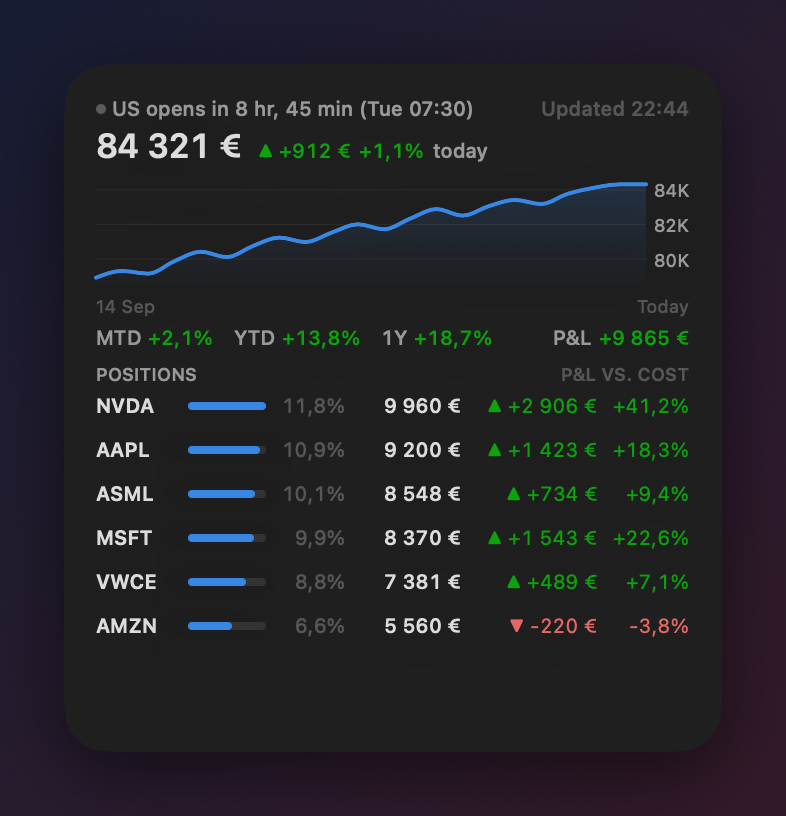
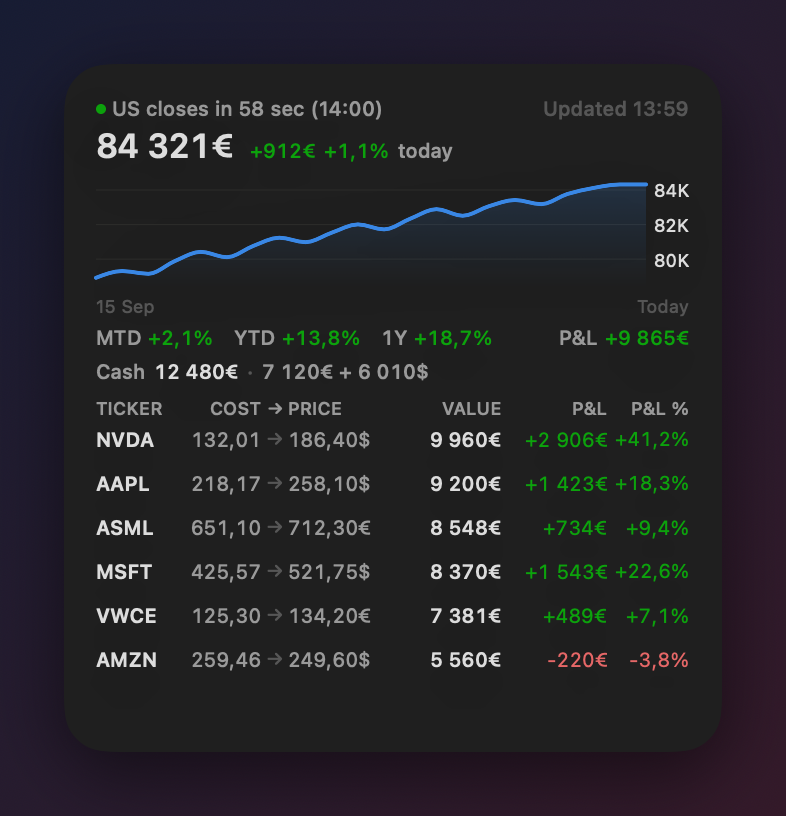
Widget: cost → price column, cash row, aligned headers, joined currency symbols

diff --git a/Shared/PortfolioViews.swift b/Shared/PortfolioViews.swift
@@ -49,7 +49,7 @@ struct Header: View {
     private var change: some View {
         HStack(spacing: 4) {
             if let d = p.dayChange {
-                Text("\(Fmt.arrow(d)) \(Fmt.signedMoney(d, p.currency))").foregroundStyle(Palette.delta(d))
+                Text(Fmt.signedMoney(d, p.currency)).foregroundStyle(Palette.delta(d))
             }
             Text(Fmt.pct(p.dayChangePct)).foregroundStyle(Palette.delta(p.dayChangePct))
             Text("today").foregroundStyle(.secondary)
@@ -125,28 +125,71 @@ struct WeightBar: View {
     }
 }
 
+/// Column labels for the detailed rows, laid out with the same fixed widths as PositionRow.
+struct PositionHeader: View {
+    var showWeightBar = false
+
+    var body: some View {
+        HStack(spacing: 3) {
+            Text("Ticker").frame(width: 38, alignment: .leading)
+            if showWeightBar {
+                Text("Weight").frame(maxWidth: .infinity, alignment: .leading)
+                Text("").frame(width: 34)
+            }
+            // same three sub-columns as the data: cost right-aligned, arrow, price left-aligned
+            HStack(spacing: 2) {
+                Text("Cost").frame(width: 42, alignment: .trailing)
+                Text("→").frame(width: 9)
+                Text("Price").frame(width: 52, alignment: .leading)
+            }
+            .frame(maxWidth: .infinity, alignment: showWeightBar ? .trailing : .leading)
+            Text("Value").frame(width: 50, alignment: .trailing)
+            Text("P&L").frame(width: 50, alignment: .trailing)
+            Text("P&L %").frame(width: 38, alignment: .trailing)
+        }
+        .font(.system(size: 9, weight: .medium))
+        .foregroundStyle(.secondary)
+        .textCase(.uppercase)
+        .lineLimit(1)
+    }
+}
+
 struct PositionRow: View {
     let pos: Position
     let currency: String
     var maxWeight: Double = 1
-    var detailed = false  // large widget: one line with weight bar, value, P&L amount and %
+    var detailed = false  // large widget: one line with cost → price, value, P&L amount and %
     var dense = false  // smaller type when many positions must fit
+    var showWeightBar = false  // extra-large widget has room for the bar as well
 
     var body: some View {
         if detailed {
-            HStack(spacing: 6) {
-                Text(pos.ticker).font(.caption.weight(.semibold)).frame(width: 40, alignment: .leading)
-                WeightBar(weight: pos.weight ?? 0, max: maxWeight).frame(minWidth: 30)
-                Text(Fmt.pct(pos.weight, signed: false)).foregroundStyle(.tertiary).frame(width: 34, alignment: .trailing)
-                Text(Fmt.money(pos.baseValue, currency)).fontWeight(.medium).frame(width: 52, alignment: .trailing)
-                Text("\(Fmt.arrow(pos.basePnl)) \(Fmt.signedMoney(pos.basePnl, currency))")
-                    .foregroundStyle(Palette.delta(pos.basePnl)).frame(width: 62, alignment: .trailing)
-                Text(Fmt.pct(pos.pnlPct)).foregroundStyle(Palette.delta(pos.basePnl)).frame(width: 40, alignment: .trailing)
+            // every column has a fixed width and the sum (≈285pt) stays under the 297pt row even at
+            // the real widget's slightly wider font metrics, so nothing shifts between rows
+            HStack(spacing: 3) {
+                Text(pos.ticker).font(.caption.weight(.semibold)).frame(width: 38, alignment: .leading)
+                if showWeightBar {
+                    WeightBar(weight: pos.weight ?? 0, max: maxWeight).frame(minWidth: 30)
+                    Text(Fmt.pct(pos.weight, signed: false)).foregroundStyle(.tertiary).frame(width: 34, alignment: .trailing)
+                }
+                // average cost → current price in the stock's own currency, as aligned sub-columns
+                HStack(spacing: 2) {
+                    Text(pos.avgPrice.map(Fmt.price) ?? "–").frame(width: 42, alignment: .trailing)
+                    Text("→").foregroundStyle(.tertiary).frame(width: 9)
+                    // cost right-aligned, price left-aligned: the arrow sits centred between them in every row
+                    Text("\(Fmt.price(pos.price))\(Fmt.symbol(pos.currency))").frame(width: 52, alignment: .leading)
+                }
+                .foregroundStyle(.secondary)
+                .frame(maxWidth: .infinity, alignment: showWeightBar ? .trailing : .leading)
+                Text(Fmt.money(pos.baseValue, currency)).fontWeight(.medium).frame(width: 50, alignment: .trailing)
+                Text(Fmt.signedMoney(pos.basePnl, currency))
+                    .foregroundStyle(Palette.delta(pos.basePnl)).frame(width: 50, alignment: .trailing)
+                Text(Fmt.pct(pos.pnlPct)).foregroundStyle(Palette.delta(pos.basePnl)).frame(width: 38, alignment: .trailing)
             }
             .font(.system(size: dense ? 9 : 10))
             .monospacedDigit()
             .lineLimit(1)
-            .minimumScaleFactor(0.85)
+            .minimumScaleFactor(0.8)
         } else {
             HStack(spacing: 8) {
                 VStack(alignment: .leading, spacing: 1) {
@@ -160,7 +203,7 @@ struct PositionRow: View {
                 Spacer(minLength: 0)
                 VStack(alignment: .trailing, spacing: 1) {
                     Text(Fmt.money(pos.baseValue, currency)).font(.caption.weight(.medium))
-                    Text("\(Fmt.arrow(pos.pnlPct)) \(Fmt.pct(pos.pnlPct))")
+                    Text(Fmt.pct(pos.pnlPct))
                         .font(.system(size: 9, weight: .medium))
                         .foregroundStyle(Palette.delta(pos.basePnl))
                 }
@@ -213,7 +256,8 @@ struct PortfolioView: View {
                     .frame(height: n <= 4 ? 80 : n <= 7 ? 56 : 28)
                 DateRange(points: p.navChart)
                 returnsRow
-                Caption(title: "Positions", note: "P&L vs. cost")
+                cashRow
+                PositionHeader()
                     .padding(.top, 2)
                 VStack(spacing: n <= 4 ? 12 : n <= 7 ? 9 : 3) {
                     ForEach(p.positions.prefix(10)) { PositionRow(pos: $0, currency: p.currency, maxWeight: maxWeight, detailed: true, dense: dense) }
@@ -232,7 +276,7 @@ struct PortfolioView: View {
                     if let cash = p.cashBalances, !cash.isEmpty {
                         HStack(spacing: 4) {
                             Text("Cash").foregroundStyle(.secondary)
-                            Text(cash.map { Fmt.money($0.cash, $0.currency) }.joined(separator: " + "))
+                            Text(cash.map { Fmt.amount($0.cash, $0.currency) }.joined(separator: " + "))
                         }
                         .font(.caption2.weight(.medium))
                         .monospacedDigit()
@@ -241,8 +285,8 @@ struct PortfolioView: View {
                 }
                 .frame(width: 290)
                 VStack(spacing: n > 10 ? 3 : n > 7 ? 6 : 10) {
-                    Caption(title: "\(n) positions", note: "P&L vs. cost")
-                    ForEach(p.positions.prefix(14)) { PositionRow(pos: $0, currency: p.currency, maxWeight: maxWeight, detailed: true, dense: n > 10) }
+                    PositionHeader(showWeightBar: true)
+                    ForEach(p.positions.prefix(14)) { PositionRow(pos: $0, currency: p.currency, maxWeight: maxWeight, detailed: true, dense: n > 10, showWeightBar: true) }
                     more(after: 14)
                     Spacer(minLength: 0)
                 }
@@ -265,6 +309,23 @@ struct PortfolioView: View {
                 .fixedSize()
             }
         }
+    }
+
+    /// Available cash: total in the base currency, then the balances it is made of.
+    @ViewBuilder
+    private var cashRow: some View {
+        HStack(spacing: 4) {
+            Text("Cash").foregroundStyle(.secondary)
+            Text(Fmt.money(p.cash, p.currency)).fontWeight(.medium)
+            if let cash = p.cashBalances, cash.count > 1 || cash.first?.currency != p.currency {
+                Text("·").foregroundStyle(.tertiary)
+                Text(cash.map { Fmt.amount($0.cash, $0.currency) }.joined(separator: " + ")).foregroundStyle(.secondary)
+            }
+            Spacer()
+        }
+        .font(.caption2)
+        .monospacedDigit()
+        .lineLimit(1)
     }
 
     /// "+3 more · 1 240 €" when the list is cut, so the total is never silently incomplete.

diff --git a/Shared/Portfolio.swift b/Shared/Portfolio.swift
@@ -91,7 +91,10 @@ enum AppGroup {
 
 enum Fmt {
     static func money(_ v: Double, _ currency: String, decimals: Int = 0) -> String {
-        v.formatted(.currency(code: currency).precision(.fractionLength(decimals)))
+        // the locale separates number and symbol with a space; the widget columns are tight, so join them
+        let s = v.formatted(.currency(code: currency).precision(.fractionLength(decimals)))
+        return s.replacing(#/[\s\u{00A0}\u{202F}]+(?=\p{Sc}+$|[A-Z]{3}$)/#, with: "")
+            .replacing(#/^(\p{Sc}+|[A-Z]{3})[\s\u{00A0}\u{202F}]+/#) { String($0.1) }
     }
 
     static func pct(_ v: Double?, signed: Bool = true) -> String {
@@ -102,6 +105,19 @@ enum Fmt {
 
     static func signedMoney(_ v: Double, _ currency: String) -> String {
         (v > 0 ? "+" : "") + money(v, currency)
+    }
+
+    static func symbol(_ currency: String) -> String {
+        ["USD": "$", "EUR": "€", "GBP": "£", "JPY": "¥", "CAD": "C$", "AUD": "A$", "HKD": "HK$"][currency] ?? currency
+    }
+
+    /// Whole amount with the short symbol used in the table ("6 010$"), for foreign-currency cash.
+    static func amount(_ v: Double, _ currency: String) -> String {
+        v.formatted(.number.precision(.fractionLength(0))) + symbol(currency)
+    }
+
+    static func price(_ v: Double) -> String {
+        v.formatted(.number.precision(.fractionLength(2)))
     }
 
     static func arrow(_ v: Double?) -> String {

diff --git a/Shared/Charts.swift b/Shared/Charts.swift
@@ -61,7 +61,9 @@ struct LineChart: View {
                 if showAxis {
                     AxisMarks(position: .trailing, values: .automatic(desiredCount: 3)) { _ in
                         AxisGridLine(stroke: StrokeStyle(lineWidth: 0.5)).foregroundStyle(Palette.grid)
-                        AxisValueLabel(format: FloatingPointFormatStyle<Double>.number.notation(.compactName)).font(.system(size: 9))
+                        AxisValueLabel(format: FloatingPointFormatStyle<Double>.number.notation(.compactName))
+                            .font(.system(size: 9))
+                            .foregroundStyle(.primary)
                     }
                 }
             }
